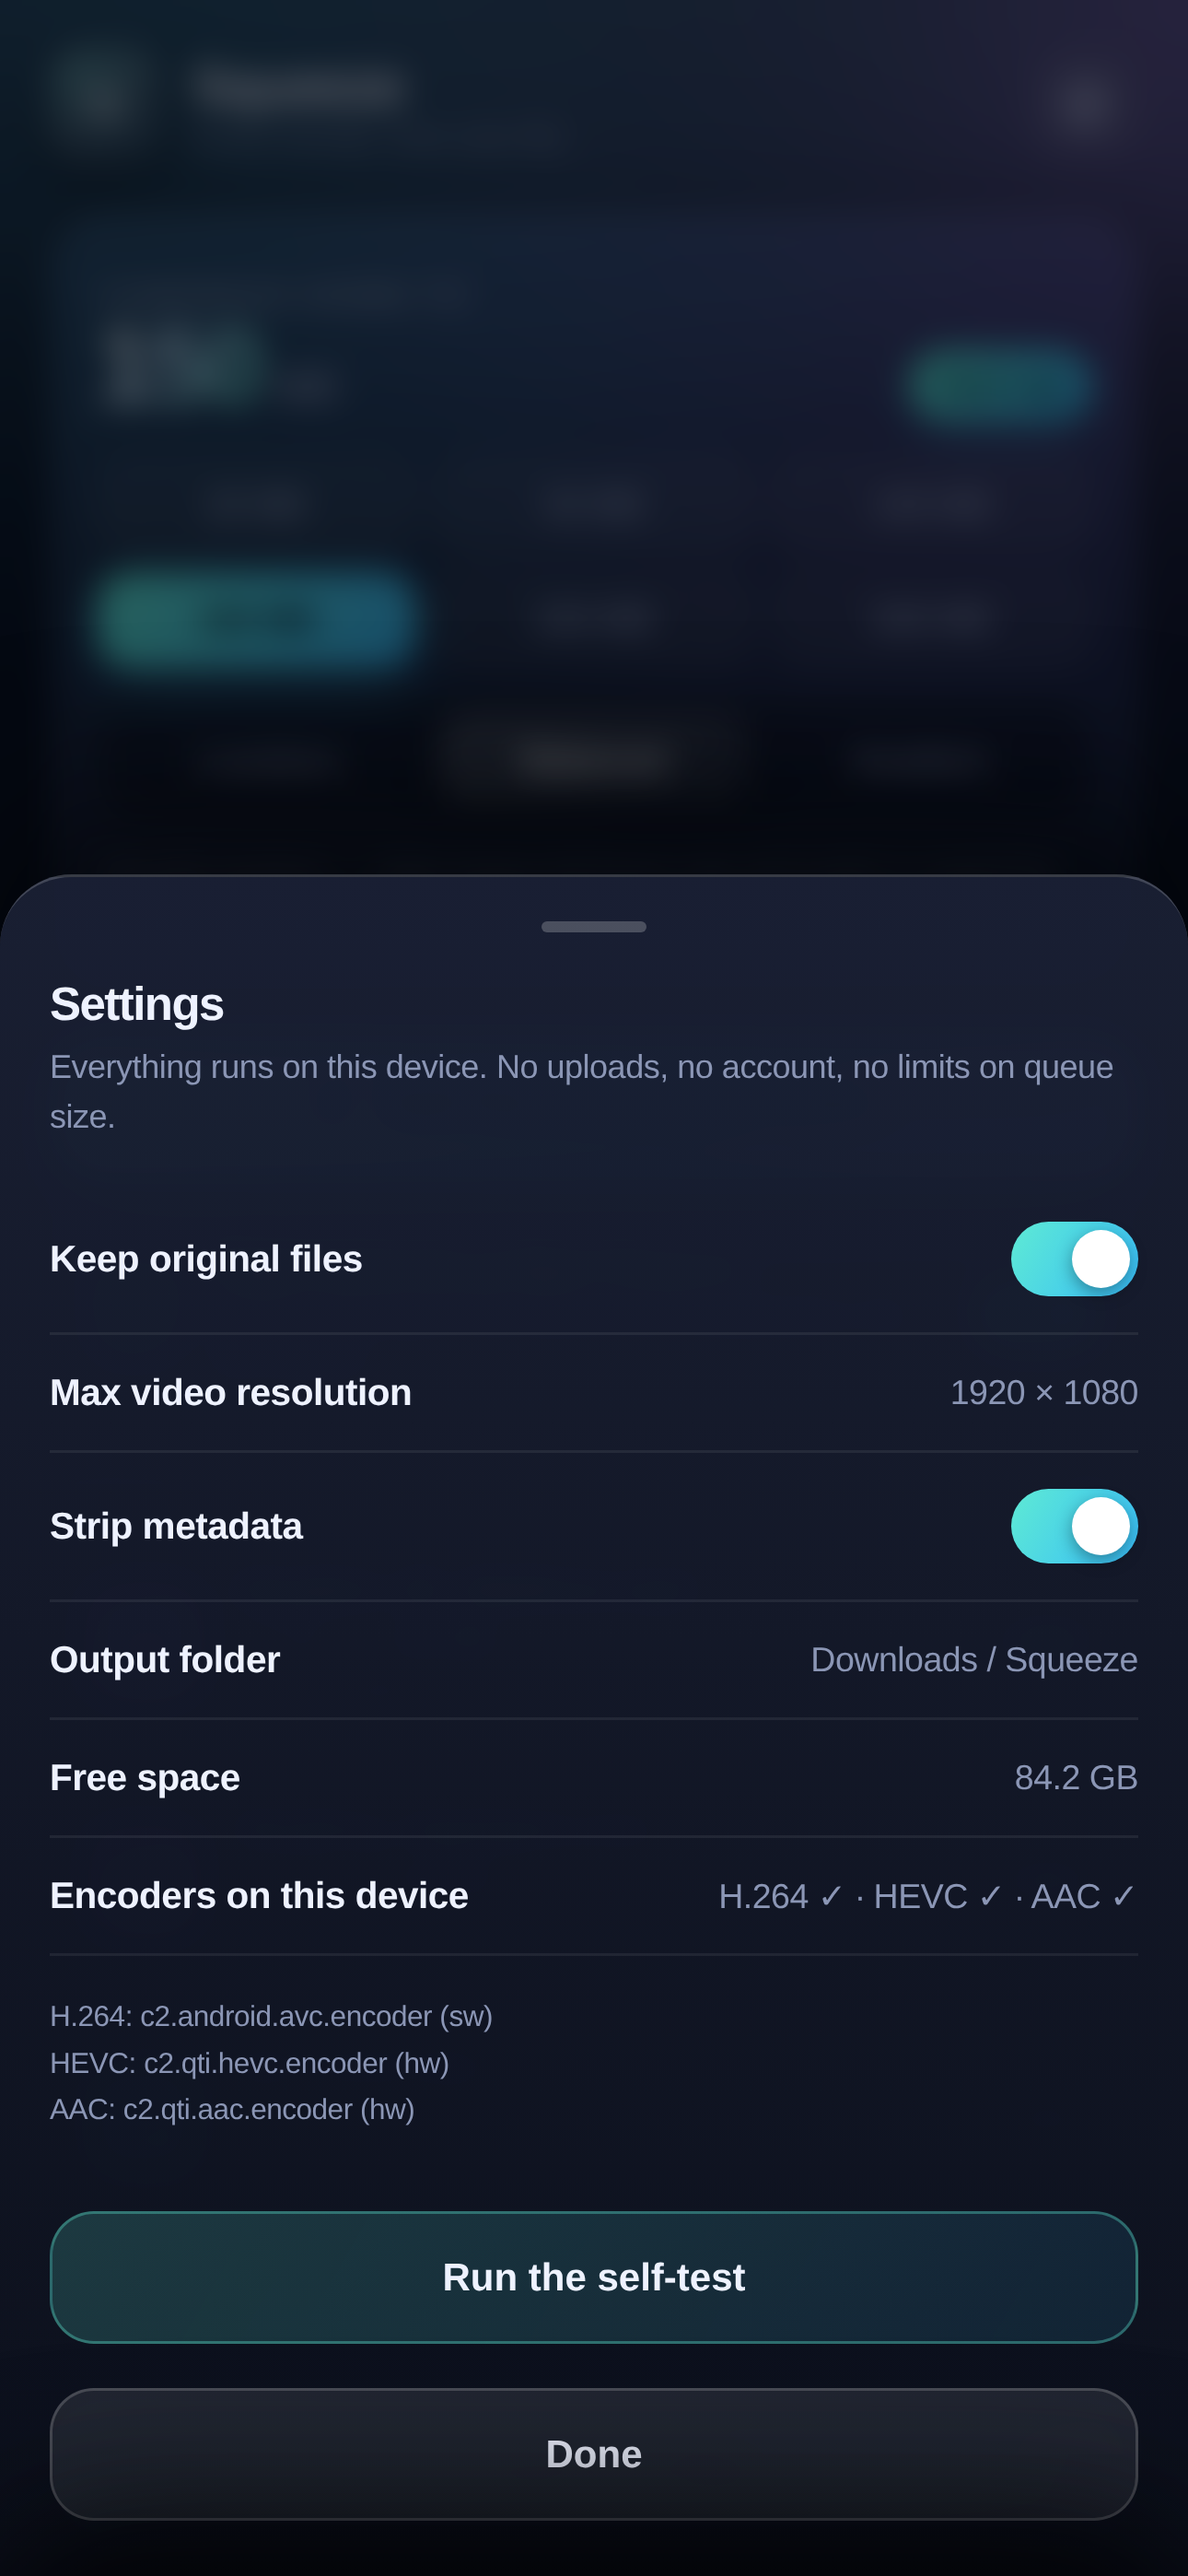
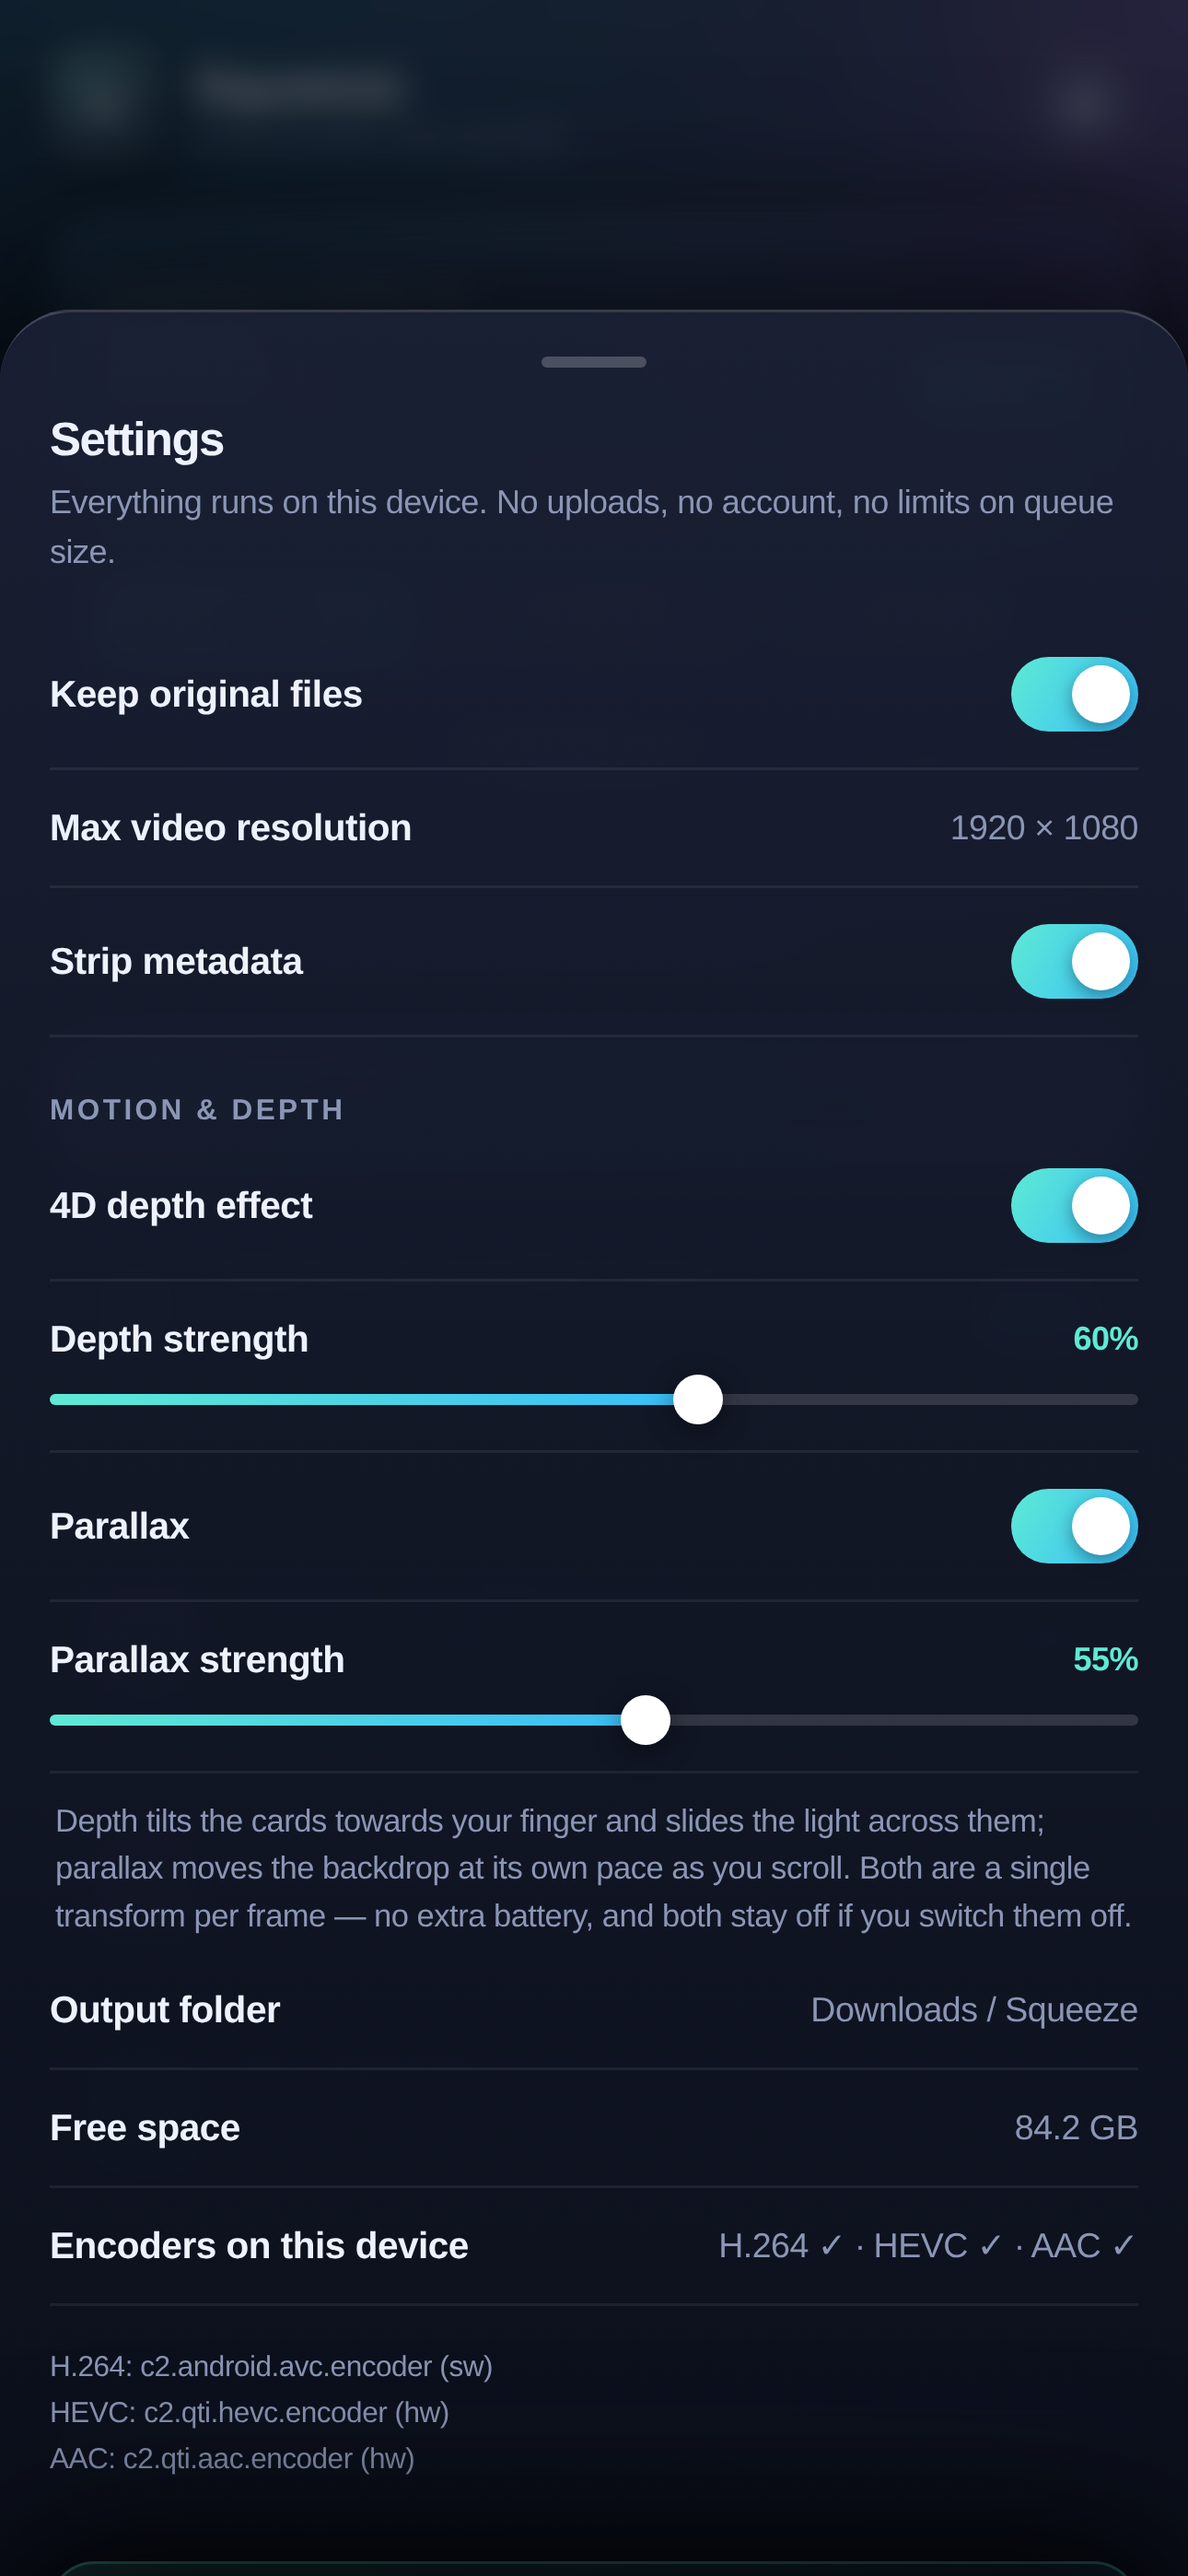
Squeeze 1.6 — motion: 4D depth effect and parallax, adjustable in Settings
* Settings gains a "Motion & depth" section: a switch and a 0-100% strength
  slider each for the 4D depth effect and for parallax, saved on the device.
* Depth tilts the glass cards towards the finger (max 6 degrees) and slides a
  light across them; parallax moves the four backdrop blobs at their own rates,
  from both the pointer and the scroll position.
* Each blob gets a wrapper so the parallax translate cannot fight the float
  keyframes that own transform on the blob itself.
* One transform per frame into CSS custom properties: no reflow, no layout work.
* prefers-reduced-motion starts both effects off instead of overriding the OS.
* Settings sheet scrolls now that it has more rows.
* Screenshot re-rendered; versionCode 7.

diff --git a/android/assets/index.html b/android/assets/index.html
@@ -19,6 +19,8 @@
   --stroke:rgba(255,255,255,.11);
   --stroke2:rgba(255,255,255,.18);
   --shadow:0 18px 40px rgba(0,0,0,.45);
+  /* driven by the motion engine in JS */
+  --mx:0;--my:0;--tilt:0;--lit:0;
 }
 *{box-sizing:border-box;-webkit-tap-highlight-color:transparent}
 html,body{margin:0;height:100%}
@@ -215,6 +217,7 @@ body{
   -webkit-backdrop-filter:blur(6px);opacity:0;pointer-events:none;transition:opacity .28s}
 .scrim.on{opacity:1;pointer-events:auto}
 .sheet{position:fixed;left:0;right:0;bottom:0;z-index:21;border-radius:26px 26px 0 0;padding:10px 18px calc(env(safe-area-inset-bottom,0px) + 20px);
+  max-height:88vh;overflow-y:auto;overscroll-behavior:contain;scrollbar-width:none;-webkit-overflow-scrolling:touch;
   background:linear-gradient(180deg,rgba(26,32,52,.96),rgba(12,16,28,.99));
   border-top:1px solid var(--stroke2);box-shadow:0 -20px 60px rgba(0,0,0,.6);
   transform:translateY(102%);transition:transform .34s cubic-bezier(.22,.9,.28,1)}
@@ -243,6 +246,38 @@ body{
 .stat{flex:1;padding:12px 8px;border-radius:15px;background:rgba(255,255,255,.05);border:1px solid var(--stroke)}
 .stat b{display:block;font-size:16px;font-weight:700;letter-spacing:-.03em}
 .stat span{display:block;margin-top:3px;font-size:10px;color:var(--dim);text-transform:uppercase;letter-spacing:.07em;font-weight:600}
+
+/* ---------- motion: 4D depth + parallax ---------- */
+/* One wrapper per blob, so parallax can translate it without fighting the
+   float keyframes (which own transform on .blob itself). */
+.plx{position:absolute;inset:0;pointer-events:none;will-change:transform}
+.card,.test-card,.add{transform-style:preserve-3d;
+  transform:perspective(1100px)
+            rotateX(calc(var(--my) * var(--tilt) * -1deg))
+            rotateY(calc(var(--mx) * var(--tilt) * 1deg));
+  transition:transform .22s cubic-bezier(.2,.8,.3,1)}
+/* The light that follows your finger: the depth effect's second half. */
+.card:after{content:"";position:absolute;inset:0;border-radius:inherit;pointer-events:none;z-index:0;
+  opacity:var(--lit);transition:opacity .3s ease;
+  background:radial-gradient(340px circle at calc(50% + var(--mx) * 46%) calc(50% + var(--my) * 46%),
+    rgba(255,255,255,.15),rgba(255,255,255,.05) 44%,transparent 70%)}
+.card>*{position:relative;z-index:1}
+
+/* ---------- settings: sliders ---------- */
+.sec-label{margin:20px 0 2px;font-size:10.5px;font-weight:700;letter-spacing:.11em;
+  text-transform:uppercase;color:var(--dim)}
+.row.slider{display:block;padding:13px 0;transition:opacity .2s}
+.row.slider.dim{opacity:.45}
+.sl-top{display:flex;align-items:center;justify-content:space-between;font-size:13.5px}
+.sl-top .k{font-weight:550;color:var(--txt)}
+.sl-top .v{font-size:12px;font-weight:650;color:var(--mint);font-variant-numeric:tabular-nums}
+input[type=range]{-webkit-appearance:none;appearance:none;width:100%;height:4px;margin:12px 0 2px;
+  border-radius:99px;outline:none;background-color:rgba(255,255,255,.14);
+  background-image:linear-gradient(90deg,var(--mint),var(--sky));
+  background-repeat:no-repeat;background-size:var(--fill,55%) 100%}
+input[type=range]::-webkit-slider-thumb{-webkit-appearance:none;width:18px;height:18px;border-radius:50%;
+  background:#fff;border:0;box-shadow:0 2px 10px rgba(0,0,0,.45);cursor:pointer}
+input[type=range]:disabled::-webkit-slider-thumb{background:rgba(255,255,255,.55)}
 
 /* toast */
 .toast{position:fixed;left:50%;bottom:calc(env(safe-area-inset-bottom,0px) + 96px);transform:translate(-50%,14px);
@@ -340,6 +375,19 @@ body{
   <div class="row"><span class="k">Keep original files</span><span class="sw on" id="sw-keep" onclick="toggle('keep')"></span></div>
   <div class="row"><span class="k">Max video resolution</span><span class="v" id="v-res">1920 × 1080</span></div>
   <div class="row"><span class="k">Strip metadata</span><span class="sw on" id="sw-strip" onclick="toggle('strip')"></span></div>
+
+  <div class="sec-label">Motion &amp; depth</div>
+  <div class="row"><span class="k">4D depth effect</span><span class="sw on" id="sw-depth" onclick="toggleMotion('depth')"></span></div>
+  <div class="row slider" id="row-depth">
+    <div class="sl-top"><span class="k">Depth strength</span><span class="v" id="v-depth">60%</span></div>
+    <input type="range" id="r-depth" min="0" max="100" value="60" oninput="setMotion('depthAmt', this.value)">
+  </div>
+  <div class="row"><span class="k">Parallax</span><span class="sw on" id="sw-par" onclick="toggleMotion('par')"></span></div>
+  <div class="row slider" id="row-par">
+    <div class="sl-top"><span class="k">Parallax strength</span><span class="v" id="v-par">55%</span></div>
+    <input type="range" id="r-par" min="0" max="100" value="55" oninput="setMotion('parAmt', this.value)">
+  </div>
+  <div class="hint" style="margin:9px 2px 4px">Depth tilts the cards towards your finger and slides the light across them; parallax moves the backdrop at its own pace as you scroll. Both are a single transform per frame — no extra battery, and both stay off if you switch them off.</div>
   <div class="row"><span class="k">Output folder</span><span class="v">Downloads / Squeeze</span></div>
   <div class="row"><span class="k">Free space</span><span class="v" id="v-free">—</span></div>
   <div class="row"><span class="k">Encoders on this device</span><span class="v" id="v-codecs">checking…</span></div>
@@ -850,9 +898,132 @@ function demoRun(){
   tick();
 }
 
+/* ---------- motion: 4D depth + parallax ---------- */
+/* Two cheap effects, both driven from one pointer position and one scroll offset:
+   depth tilts the glass cards towards the finger and slides a light across them,
+   parallax moves the backdrop blobs at their own rates. Everything is a single
+   transform per frame, written into CSS custom properties, so the layout never
+   reflows. */
+const MK = 'squeeze.motion';
+const M = { depth: true, par: true, depthAmt: 60, parAmt: 55, mx: 0, my: 0, sy: 0 };
+const PLX = [];
+
+function loadMotion(){
+  try{
+    const o = JSON.parse(localStorage.getItem(MK) || '{}');
+    if(typeof o.depth === 'boolean') M.depth = o.depth;
+    if(typeof o.par === 'boolean') M.par = o.par;
+    if(typeof o.depthAmt === 'number') M.depthAmt = Math.max(0, Math.min(100, o.depthAmt));
+    if(typeof o.parAmt === 'number') M.parAmt = Math.max(0, Math.min(100, o.parAmt));
+  }catch(e){}
+  // If the OS says "reduce motion", start with both off rather than overriding it.
+  try{
+    if(window.matchMedia && matchMedia('(prefers-reduced-motion: reduce)').matches){
+      M.depth = false; M.par = false;
+    }
+  }catch(e){}
+}
+function saveMotion(){
+  try{
+    localStorage.setItem(MK, JSON.stringify({
+      depth: M.depth, par: M.par, depthAmt: M.depthAmt, parAmt: M.parAmt
+    }));
+  }catch(e){}
+}
+
+function initMotion(){
+  // Wrap each blob: the float keyframes own transform on .blob itself, so the
+  // parallax translate goes on a wrapper instead of fighting the animation.
+  document.querySelectorAll('.bg .blob').forEach((b, i) => {
+    const w = document.createElement('div');
+    w.className = 'plx';
+    w.dataset.k = [1, -0.78, 0.62, -0.45][i % 4];
+    b.parentNode.insertBefore(w, b);
+    w.appendChild(b);
+    PLX.push(w);
+  });
+
+  const onMove = e => {
+    const t = e.touches && e.touches.length ? e.touches[0] : e;
+    if(t == null || t.clientX == null) return;
+    M.mx = Math.max(-1, Math.min(1, (t.clientX / window.innerWidth) * 2 - 1));
+    M.my = Math.max(-1, Math.min(1, (t.clientY / window.innerHeight) * 2 - 1));
+    paint();
+  };
+  addEventListener('pointermove', onMove, { passive: true });
+  addEventListener('pointerdown', onMove, { passive: true });
+  addEventListener('touchmove', onMove, { passive: true });
+  addEventListener('touchend', easeBack, { passive: true });
+  addEventListener('pointerup', easeBack);
+
+  const sc = $('scroll');
+  if(sc) sc.addEventListener('scroll', () => { M.sy = sc.scrollTop; paint(); }, { passive: true });
+
+  paint();
+  syncMotionUi();
+}
+
+/* Finger lifted: drift back to centre instead of snapping. */
+function easeBack(){
+  M.mx *= 0.3; M.my *= 0.3;
+  paint();
+  if(Math.abs(M.mx) > 0.008 || Math.abs(M.my) > 0.008) requestAnimationFrame(easeBack);
+  else { M.mx = 0; M.my = 0; paint(); }
+}
+
+let paintQueued = false;
+function paint(){
+  if(paintQueued) return;
+  paintQueued = true;
+  requestAnimationFrame(() => {
+    paintQueued = false;
+    const root = document.documentElement;
+    const dAmt = M.depth ? M.depthAmt / 100 : 0;
+    const pAmt = M.par ? M.parAmt / 100 : 0;
+    root.style.setProperty('--mx', M.mx.toFixed(3));
+    root.style.setProperty('--my', M.my.toFixed(3));
+    root.style.setProperty('--tilt', (dAmt * 6).toFixed(2));   // max 6° at 100%
+    root.style.setProperty('--lit', dAmt.toFixed(3));
+    for(const w of PLX){
+      const k = parseFloat(w.dataset.k) * pAmt;
+      const x = M.mx * 26 * k;
+      const y = M.my * 26 * k - M.sy * 0.08 * k;
+      w.style.transform = 'translate3d(' + x.toFixed(1) + 'px,' + y.toFixed(1) + 'px,0)';
+    }
+  });
+}
+
+function toggleMotion(what){
+  if(what === 'depth') M.depth = !M.depth;
+  if(what === 'par') M.par = !M.par;
+  saveMotion(); syncMotionUi(); paint();
+}
+function setMotion(key, val){
+  const n = Math.max(0, Math.min(100, parseInt(val, 10) || 0));
+  if(key === 'depthAmt') M.depthAmt = n;
+  if(key === 'parAmt') M.parAmt = n;
+  saveMotion(); syncMotionUi(); paint();
+}
+function syncMotionUi(){
+  const swD = $('sw-depth'), swP = $('sw-par'), rD = $('r-depth'), rP = $('r-par');
+  if(!swD || !rD) return;
+  swD.classList.toggle('on', M.depth);
+  swP.classList.toggle('on', M.par);
+  rD.value = M.depthAmt; rP.value = M.parAmt;
+  rD.disabled = !M.depth; rP.disabled = !M.par;
+  rD.style.setProperty('--fill', M.depthAmt + '%');
+  rP.style.setProperty('--fill', M.parAmt + '%');
+  $('v-depth').textContent = M.depth ? M.depthAmt + '%' : 'off';
+  $('v-par').textContent = M.par ? M.parAmt + '%' : 'off';
+  $('row-depth').classList.toggle('dim', !M.depth);
+  $('row-par').classList.toggle('dim', !M.par);
+}
+
 /* ---------- boot ---------- */
 (function boot(){
   const demo = /[?&]demo/.test(location.search) || !window.Native;
+  loadMotion();
+  initMotion();
   renderChips(); renderQueue(); recalc();
   $('modehint').textContent = MODE_HINT[S.mode];
   if(demo){

diff --git a/README.md b/README.md
@@ -30,6 +30,14 @@ Squeeze registers itself as a share target and an "open with" handler, so **Shar
 
 While a job is running a small pill in the footer says the screen stays awake, which reflects the actual wake lock: the display is held on and a partial wake lock keeps the CPU going, so a locked phone does not quietly stall the encoder.
 
+## Motion you can dial down
+
+The UI has two motion effects, and both are adjustable in **Settings → Motion & depth** rather than baked in.
+
+The **4D depth effect** tilts the glass cards towards your finger (up to 6° at full strength) and slides a soft light across them, so the surface reads as layered instead of flat. **Parallax** moves the four backdrop blobs at their own rates — the nearest one travels furthest — both with your finger and as the queue scrolls, which is what gives the screen depth when the list is long.
+
+Each has its own switch and its own strength slider (0–100%), saved on the device and restored on the next launch. Both are one `transform` per frame written into CSS custom properties, so nothing reflows and there is no measurable battery cost; if the system's "reduce motion" setting is on, both start switched off instead of overriding it.
+
 ## Install
 
 Download **[Squeeze.apk](Squeeze.apk)** and open it on your phone. Android 10 or newer. You may need to allow "install unknown apps" for your browser or file manager the first time.
